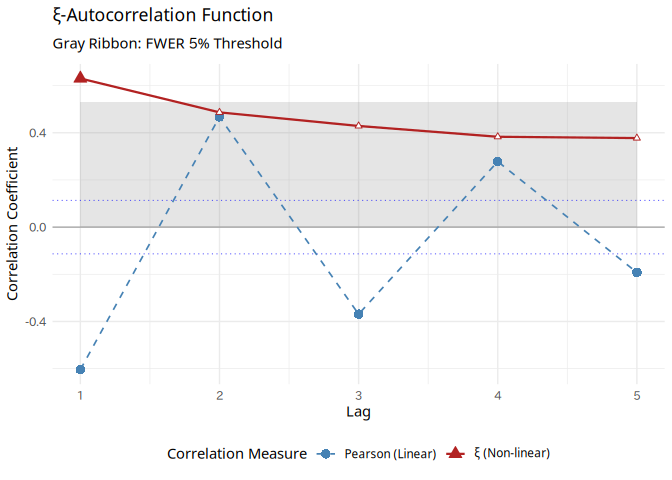
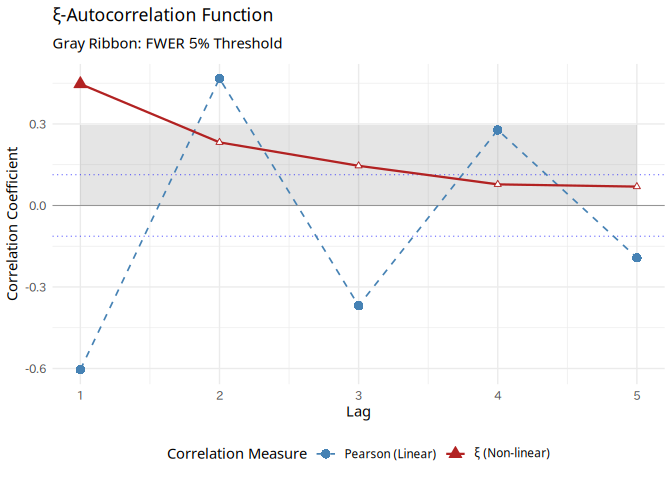
chore(release): bump version to 0.6.1 and update documentation
- Update version to v0.6.1 in DESCRIPTION
- Finalize NEWS.md with changelog for v0.6.1
- Update documentation and vignettes to reflect Dual-Family FWER separation
- Finalize comprehensive test suite for mathematical robustness

diff --git a/README.md b/README.md
@@ -46,10 +46,20 @@ paper detailing the methodology:
 - **Multivariate Network Matrix (`xi_matrix`):** Simultaneously evaluate
   causal pathways across an entire system of time series to build
   directed non-linear networks.
-- **Rigorous Statistical Inference:** Utilizes phase-randomized
-  surrogate data (IAAFT / MIAAFT) and dynamically controls the
-  Family-Wise Error Rate (FWER) via Max-Statistic distributions,
-  strictly protecting against false positives ($p$-hacking).
+- **Rigorous Inference & Dual-Family FWER Control:** Utilizes
+  phase-randomized surrogate data (IAAFT / MIAAFT) and dynamically
+  controls the FWER via Max-Statistic distributions. To overcome the
+  **“Lag-0 Masking Effect”**—where MIAAFT perfectly preserves
+  contemporaneous linear confounding—`xiacf` uniquely implements a
+  **Dual-Family FWER Control**. It completely decouples the significance
+  thresholds for pure contemporaneous effects (Lag 0) and temporal
+  causal propagation (Lag \> 0), maximizing the statistical power to
+  detect delayed causal spillovers.
+- **Strict Algorithmic Integrity:** The core C++ engine rigorously
+  implements the exact original specifications of Chatterjee’s $\xi$. By
+  enforcing uniform random tie-breaking, the package ensures that the
+  baseline calculations strictly align with the mathematical definition
+  and its asymptotic properties.
 - **Tidyverse-ready & Publication-Quality UI:** All functions return
   Tidy data frames. The `autoplot()` methods instantly generate
   beautiful, unified, and publication-ready `ggplot2` visualizations.
@@ -99,6 +109,10 @@ for (t in 2:n) {
 }
 
 res_acf <- xi_acf(A, max_lag = 5, n_surr = 249)
+#> Warning in check_surrogate_count(n_surr = n_surr, sig_level = sig_level, :
+#> Warning: For 5 simultaneous tests at sig_level = 0.05, the empirical
+#> distribution of the max-statistic may be unstable with n_surr = 249.
+#> Recommended n_surr is at least 399.
 print(res_acf)
 #> 
 #> === Univariate Xi-Autocorrelation Function ===
@@ -109,7 +123,7 @@ print(res_acf)
 #> ==============================================
 #> Significant Lags:
 #>  Lag        Xi Global_Threshold Xi_Excess
-#>    1 0.6301542        0.5302148 0.0999394
+#>    1 0.4470805        0.2976711 0.1494094
 autoplot(res_acf)
 ```
 
@@ -136,6 +150,10 @@ for (t in 3:n) {
 Y <- as.numeric(scale(Y))
 
 res_ccf <- xi_ccf(X, Y, max_lag = 5, n_surr = 249, direction = "both")
+#> Warning in xi_ccf(X, Y, max_lag = 5, n_surr = 249, direction = "both"):
+#> Warning: For 10 simultaneous tests at sig_level = 0.05, the empirical
+#> distribution of the max-statistic may be unstable with n_surr = 249.
+#> Recommended n_surr is at least 399.
 print(res_ccf)
 #> 
 #> === Bivariate Xi-Cross-Correlation (CCF) ===
@@ -148,7 +166,7 @@ print(res_ccf)
 #> ============================================
 #> Top 5 Strongest Causal Pathways:
 #>  Lead_Var Lag_Var Lag        Xi      CCF Global_Threshold Xi_Excess
-#>         X       Y   2 0.7584119 0.123921        0.4662698 0.2921421
+#>         X       Y   2 0.6388298 0.123921       0.09151595 0.5473138
 autoplot(res_ccf)
 ```
 
@@ -210,13 +228,13 @@ rolling_res <- run_rolling_xi_ccf(
 )
 
 head(rolling_res)
-#>   Window_ID Lead_Var Lag_Var Lag        Xi Global_Threshold Xi_Excess
-#> 1         1        x       y   0 0.2955102        0.4966531 0.0000000
-#> 2         1        x       y   1 0.2882653        0.4966531 0.0000000
-#> 3         1        x       y   2 0.6923759        0.4966531 0.1957228
-#> 4         1        x       y   3 0.2738205        0.4966531 0.0000000
-#> 5         1        y       x   0 0.2669388        0.4966531 0.0000000
-#> 6         1        y       x   1 0.3205782        0.4966531 0.0000000
+#>   Window_ID Lead_Var Lag_Var Lag          Xi Global_Threshold Xi_Excess
+#> 1         1        x       y   0 -0.03601441        0.2570228 0.0000000
+#> 2         1        x       y   1 -0.04625000        0.2185806 0.0000000
+#> 3         1        x       y   2  0.54798089        0.2185806 0.3294003
+#> 4         1        x       y   3 -0.06657609        0.2185806 0.0000000
+#> 5         1        y       x   0 -0.07803121        0.2570228 0.0000000
+#> 6         1        y       x   1  0.00125000        0.2185806 0.0000000
 ```
 
 ## References

diff --git a/NEWS.md b/NEWS.md
@@ -1,3 +1,15 @@
+# xiacf 0.6.1
+
+## Major Changes and Bug Fixes
+* **Core Math Fix:** Corrected the denominator in the internal C++ implementation of Chatterjee's Xi coefficient to exactly $n^2 - 1$. This fixes an issue where the baseline for independent variables was slightly inflated (approx. 0.33) rather than asymptotically converging to 0. (Thanks to user reports and rigorous auditing).
+* **Dual-Family FWER Control:** Introduced a mathematically rigorous separation of FWER control families in `xi_ccf` and `xi_matrix`. The Max-Statistic null distribution is now strictly evaluated independently for Contemporaneous (Lag 0) and Temporal (Lag > 0) dependencies. This resolves the "Lag-0 Masking Effect," significantly improving the statistical power to detect delayed causal propagation.
+* **Autocorrelation Exclusion:** Excluded completely diagonal elements (autocorrelations) from the FWER search space in `xi_matrix` to prevent arbitrary threshold inflation.
+
+## Minor Improvements
+* Improved parallel backend safety using `%dofuture%` with explicit package loading.
+* Restored the `Window_ID` tracking column in the outputs of `run_rolling_xi_acf` and `run_rolling_xi_ccf`.
+* Upgraded internal surrogate generation checks (`check_surrogate_count`) to rigorously validate user-provided `n_surr` against the dynamic size of FWER test families.
+
 # xiacf 0.6.0
 
 * **Directional Separation:** `xi_ccf()` now explicitly separates causal directions (`direction = "both"`, `"x_leads"`, `"y_leads"`) and returns Tidy data frames for easier downstream EDA.
